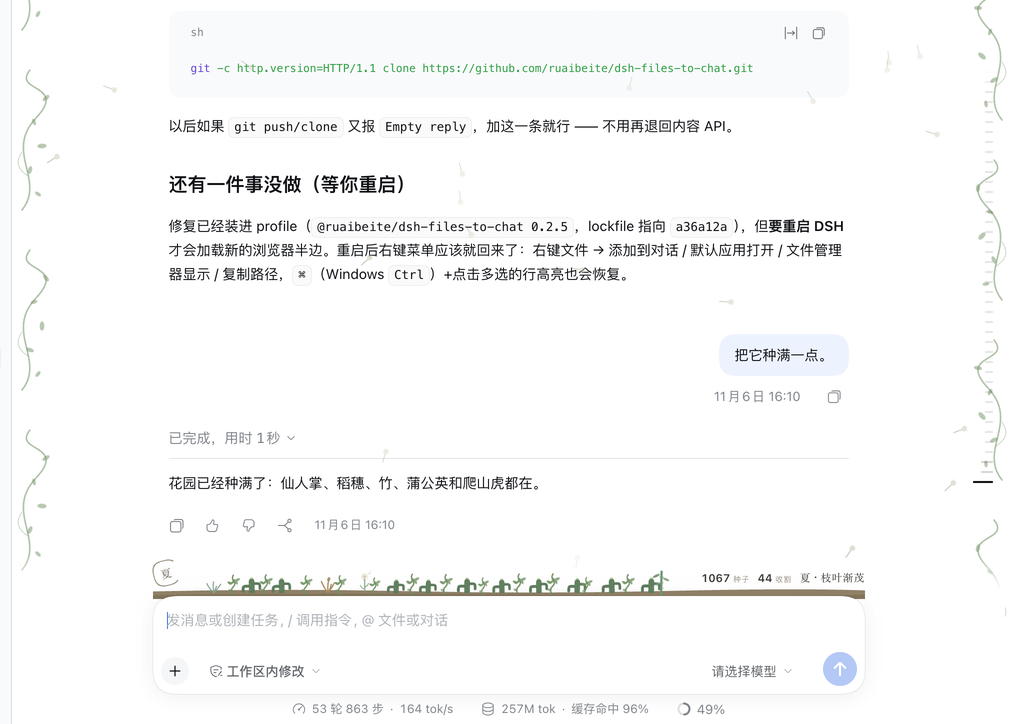
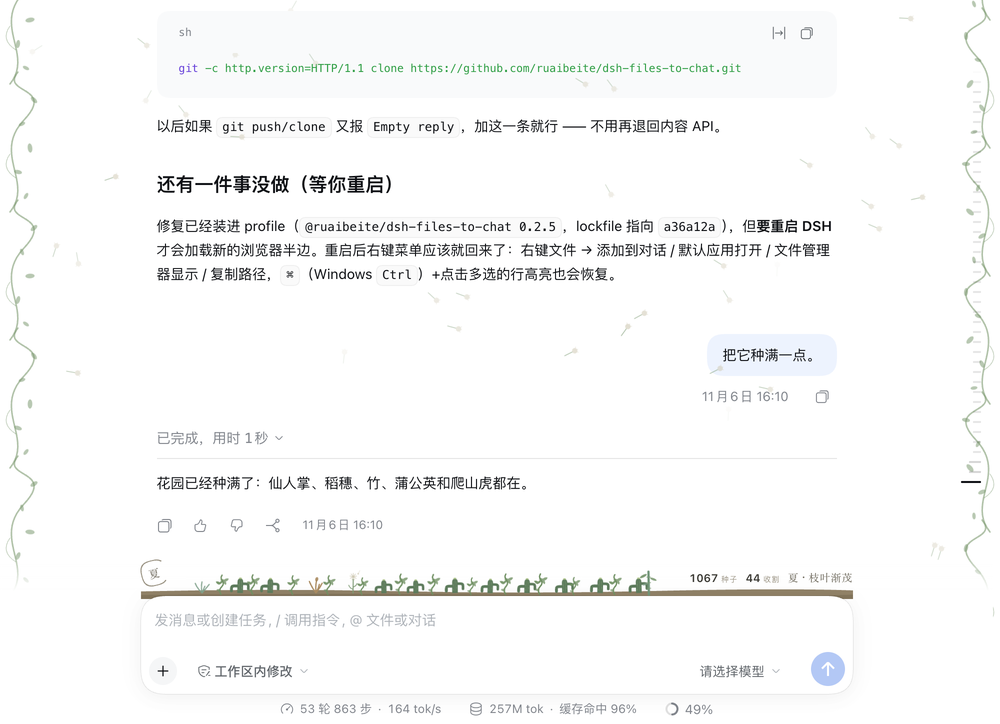
feat: let ambient growth spread further across the conversation
Ivy now climbs in up to sixteen segments and dandelion seeds drift up to
fifty-six at a time, so a long session's edge vines and a chat full of web
results genuinely fill the conversation column instead of hugging its
corners. Re-captured screenshot-5 from this build; render test expectations
updated (49 host + 21 render = 70 checks).

diff --git a/client.js b/client.js
@@ -1403,10 +1403,10 @@ window.__ModuleLoader__.load({
       const ivy = Math.max(0, Math.floor(num(options === undefined ? 0 : options.ivy)))
       const dandelions = Math.max(0, Math.floor(num(options === undefined ? 0 : options.dandelions)))
       const reduced = options !== undefined && options !== null && options.reduced === true
-      const segments = Math.min(10, Math.ceil(ivy / 40))
-      const seedCount = reduced ? 0 : Math.min(30, Math.ceil(dandelions * 2.5))
+      const segments = Math.min(16, Math.ceil(ivy / 30))
+      const seedCount = reduced ? 0 : Math.min(56, Math.ceil(dandelions * 3.5))
       if (segments === 0 && seedCount === 0) return ''
-      const span = Math.max(90, (height - 140) / Math.max(segments, 1))
+      const span = Math.max(64, (height - 120) / Math.max(segments, 1))
       let vines = ''
       for (let i = 0; i < segments; i += 1) {
         const side = i % 2 === 0 ? 1 : -1
